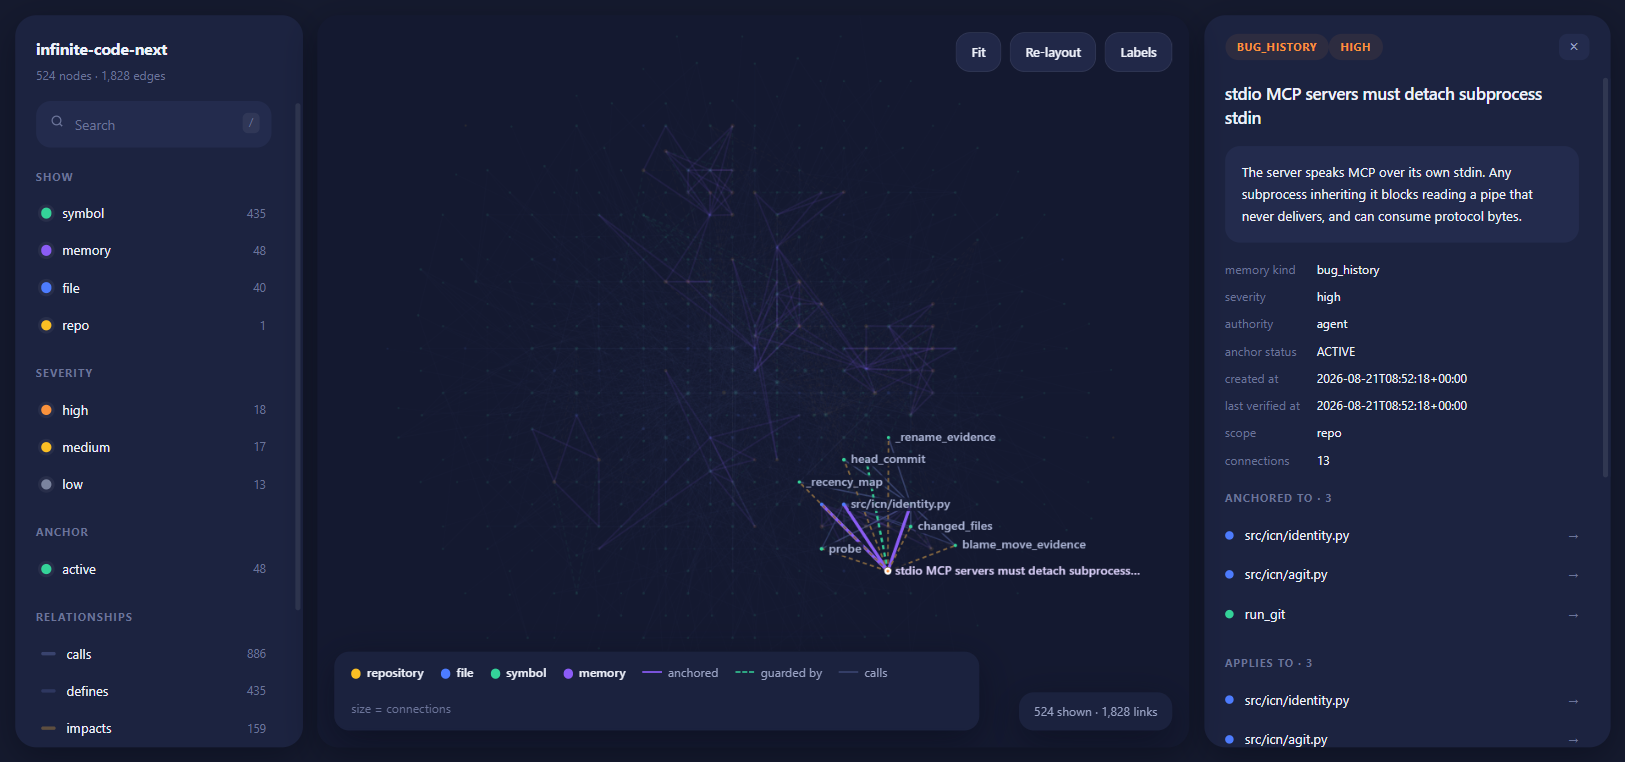
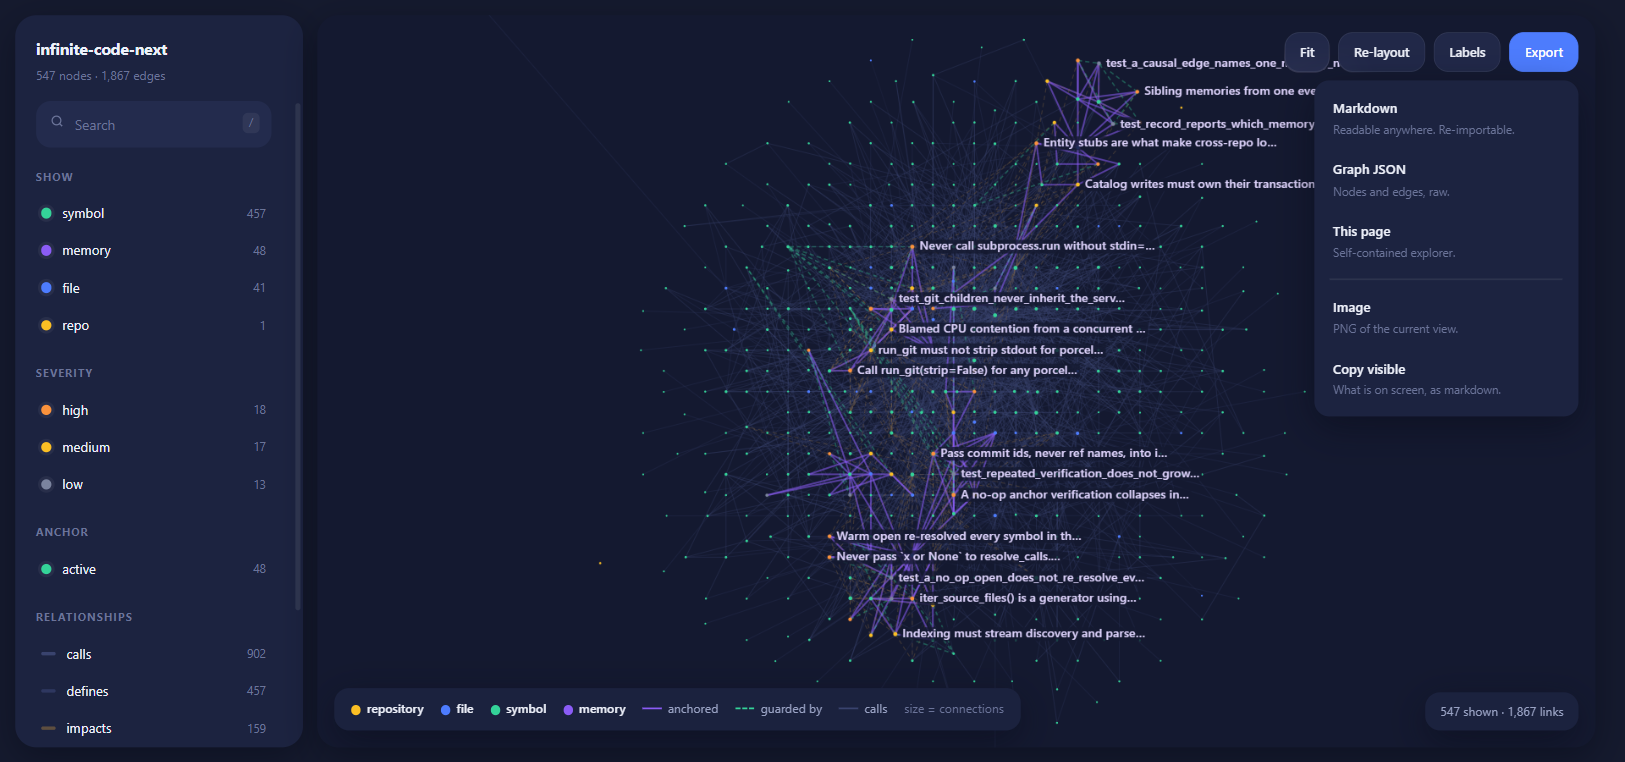
Add export to the explorer UI
Export existed only on the CLI, which is invisible to anyone actually
looking at the graph. The toolbar now carries an Export menu offering
markdown, graph JSON, the page itself, a PNG of the current view, and a
"copy visible" that exports only what filters and search have left on
screen - so narrowing the view is how you produce a shareable subset.

All of it runs in the browser against the embedded graph. Nothing calls
back to the origin, so a page saved to disk still exports; a test asserts
the export path uses no fetch, XHR or EventSource.

The markdown builder is reimplemented in JS rather than round-tripping
through the server, which creates a drift risk: a browser export that
looks correct and silently fails to import is the worst possible outcome.
It mirrors export.to_markdown() including section ordering and the
trailing JSON block, and a test pins the structural contract both sides
depend on. Verified end to end by importing a browser-shaped export
through the real CLI: 48 memories, 7 anchored to local code.

PNG export composes onto an opaque ground first, because the canvas is
transparent and a dark-on-dark image that only reads in a dark viewer is
a trap. Clipboard copy falls back to a download when the clipboard API is
unavailable, rather than leaving someone believing the export vanished.

162 tests.

diff --git a/src/icn/web/explorer.js b/src/icn/web/explorer.js
@@ -427,6 +427,154 @@ document.getElementById('lbl').onclick = ev => {
 };
 addEventListener('resize', () => draw());
 
+/* ------------------------------------------------------------------ export */
+/* Everything here runs in the browser against the embedded graph. The markdown
+   deliberately mirrors export.to_markdown() byte for byte, including the
+   trailing JSON block, so a file saved from this page re-imports through
+   `icn-explore import` exactly like one written by the CLI. Diverging would
+   produce a file that looks right and silently fails to import. */
+const MEM_ORDER = ['security','invariant','warning','contract','failed_attempt',
+  'decision','bug_history','fix_history','migration','performance','convention',
+  'rationale','test_evidence'];
+
+function toast(msg) {
+  let el = document.querySelector('.toast');
+  if (!el) { el = document.createElement('div'); el.className = 'toast';
+             document.body.appendChild(el); }
+  el.textContent = msg;
+  requestAnimationFrame(() => el.classList.add('show'));
+  clearTimeout(el._t);
+  el._t = setTimeout(() => el.classList.remove('show'), 2600);
+}
+
+function download(name, blob) {
+  const url = URL.createObjectURL(blob), a = document.createElement('a');
+  a.href = url; a.download = name;
+  document.body.appendChild(a); a.click(); a.remove();
+  setTimeout(() => URL.revokeObjectURL(url), 1000);
+  toast('Saved ' + name);
+}
+
+const slug = s => (s || 'knowledge').replace(/[^a-z0-9._-]+/gi, '-').toLowerCase();
+
+function toMarkdown(graph) {
+  const mems = graph.nodes.filter(n => n.kind === 'memory');
+  const out = [
+    `# Knowledge: ${graph.repo_name}`, '',
+    `Exported ${graph.exported_at} from \`${graph.repo_id}\`.`,
+    `${mems.length} memories over ${graph.stats.nodes} nodes` +
+      ` and ${graph.stats.edges} edges.`, '',
+    'Import with `icn-explore import <this file>`.', '',
+  ];
+
+  const labels = new Map(graph.nodes.map(n => [n.id, n.label]));
+  const anchored = new Map();
+  for (const e of graph.edges) if (e.kind === 'ANCHORED_TO')
+    (anchored.get(e.from) || anchored.set(e.from, []).get(e.from))
+      .push(labels.get(e.to) || e.to);
+
+  const byKind = new Map();
+  for (const m of mems) {
+    const k = m.detail?.memory_kind || 'rationale';
+    (byKind.get(k) || byKind.set(k, []).get(k)).push(m);
+  }
+  const kinds = [...MEM_ORDER.filter(k => byKind.has(k)),
+                 ...[...byKind.keys()].filter(k => !MEM_ORDER.includes(k)).sort()];
+
+  for (const kind of kinds) {
+    out.push('## ' + kind.replace(/_/g,' ').replace(/\b\w/g, c => c.toUpperCase()), '');
+    for (const m of byKind.get(kind).sort((a,b) => (a.label||'').localeCompare(b.label||''))) {
+      const d = m.detail || {};
+      const flag = d.anchor_status === 'ACTIVE' ? '' : ` **[${d.anchor_status}]**`;
+      out.push(`### ${m.label}${flag}`, '');
+      out.push(`- severity: ${d.severity} | authority: ${d.authority}`);
+      const at = anchored.get(m.id) || [];
+      if (at.length) out.push('- applies to: ' + at.slice(0,8).map(a => '`'+a+'`').join(', '));
+      out.push('');
+      const body = (d.body || '').trim();
+      if (body && body !== m.label) out.push(body, '');
+    }
+  }
+
+  out.push('---', '', '<!-- infinite-code-next:graph -->', '```json',
+           JSON.stringify(graph, null, 1), '```', '');
+  return out.join('\n');
+}
+
+function visibleGraph() {
+  // What is on screen, as a real graph: filters and search already decided
+  // this, so exporting it is how a filtered view becomes a shareable subset.
+  const ids = new Set(vis.map(n => n.id));
+  const nodes = vis.map(({x,y,vx,vy,deg,r,hit,...keep}) => keep);
+  const edges = vedges.filter(e => ids.has(e.from) && ids.has(e.to));
+  const byNodeKind = {}, byEdgeKind = {};
+  for (const n of nodes) byNodeKind[n.kind] = (byNodeKind[n.kind]||0)+1;
+  for (const e of edges) byEdgeKind[e.kind] = (byEdgeKind[e.kind]||0)+1;
+  return {...GRAPH, nodes, edges,
+          exported_at: new Date().toISOString().replace(/\.(\d{3})Z$/, '.$1+00:00'),
+          stats:{nodes:nodes.length, edges:edges.length,
+                 by_node_kind:byNodeKind, by_edge_kind:byEdgeKind}};
+}
+
+function exportPng() {
+  // Compose onto an opaque ground: the canvas is transparent, and a PNG that
+  // renders as dark-on-dark everywhere except a white viewer is a trap.
+  const out = document.createElement('canvas');
+  out.width = cv.width; out.height = cv.height;
+  const c = out.getContext('2d');
+  c.fillStyle = getComputedStyle(document.documentElement)
+                  .getPropertyValue('--stage').trim() || '#141930';
+  c.fillRect(0, 0, out.width, out.height);
+  c.drawImage(cv, 0, 0);
+  out.toBlob(b => download(slug(GRAPH.repo_name) + '-graph.png', b), 'image/png');
+}
+
+const EXPORTS = {
+  md:   () => download(slug(GRAPH.repo_name) + '-knowledge.md',
+                new Blob([toMarkdown(GRAPH)], {type:'text/markdown;charset=utf-8'})),
+  json: () => download(slug(GRAPH.repo_name) + '-graph.json',
+                new Blob([JSON.stringify(GRAPH, null, 1)], {type:'application/json'})),
+  html: () => download(slug(GRAPH.repo_name) + '-explorer.html',
+                new Blob(['<!doctype html>\n' + document.documentElement.outerHTML],
+                         {type:'text/html;charset=utf-8'})),
+  png:  exportPng,
+  clip: async () => {
+    const md = toMarkdown(visibleGraph());
+    try {
+      await navigator.clipboard.writeText(md);
+      toast(`Copied ${vis.length} nodes as markdown`);
+    } catch {
+      // Clipboard needs a secure context; falling back to a file is better
+      // than telling someone their export vanished.
+      download(slug(GRAPH.repo_name) + '-visible.md',
+               new Blob([md], {type:'text/markdown;charset=utf-8'}));
+    }
+  },
+};
+
+const exportBtn = document.getElementById('exportBtn');
+const exportMenu = document.getElementById('exportMenu');
+function closeMenu() {
+  exportMenu.hidden = true;
+  exportBtn.classList.remove('on');
+  exportBtn.setAttribute('aria-expanded', 'false');
+}
+exportBtn.onclick = ev => {
+  ev.stopPropagation();
+  const open = exportMenu.hidden;
+  exportMenu.hidden = !open;
+  exportBtn.classList.toggle('on', open);
+  exportBtn.setAttribute('aria-expanded', String(open));
+};
+exportMenu.querySelectorAll('button[data-fmt]').forEach(b => b.onclick = () => {
+  closeMenu();
+  try { EXPORTS[b.dataset.fmt](); }
+  catch (err) { toast('Export failed: ' + err.message); }
+});
+addEventListener('click', ev => {
+  if (!exportMenu.hidden && !exportMenu.contains(ev.target)) closeMenu();
+});
+
 /* --------------------------------------------------------------- lifecycle */
 function seed() {
   nodes.forEach((n,i) => {

diff --git a/src/icn/web/explorer.css b/src/icn/web/explorer.css
@@ -182,3 +182,31 @@ canvas.drag { cursor:grabbing; }
 .empty { display:flex; flex-direction:column; align-items:center; justify-content:center;
          height:100%; gap:12px; color:var(--faint); text-align:center; padding:34px; }
 .empty svg { width:38px; height:38px; stroke:currentColor; fill:none; stroke-width:1.3; }
+
+/* --------------------------------------------------------------- export */
+/* The graph is already embedded in this page, so every export runs offline
+   in the browser. Nothing here calls back to the server. */
+.menu-wrap { position:relative; }
+.menu {
+  position:absolute; top:calc(100% + 8px); right:0; min-width:250px; z-index:20;
+  background:var(--card); border-radius:var(--r-md); box-shadow:var(--shadow);
+  padding:7px; display:flex; flex-direction:column; gap:2px;
+}
+.menu[hidden] { display:none; }
+.menu button {
+  display:flex; flex-direction:column; gap:2px; align-items:flex-start;
+  background:none; border:0; color:var(--text); font:inherit; text-align:left;
+  padding:9px 11px; border-radius:var(--r-sm); cursor:pointer; width:100%;
+}
+.menu button:hover { background:var(--card-2); }
+.menu button b { font-size:12.5px; font-weight:600; }
+.menu button span { font-size:11px; color:var(--faint); }
+.menu-sep { height:1px; background:var(--line); margin:5px 8px; }
+
+.toast {
+  position:fixed; bottom:26px; left:50%; transform:translateX(-50%) translateY(14px);
+  background:var(--card); color:var(--text); border-radius:var(--r-md);
+  padding:12px 20px; font-size:12.5px; box-shadow:var(--shadow);
+  opacity:0; pointer-events:none; transition:opacity .2s,transform .2s; z-index:60;
+}
+.toast.show { opacity:1; transform:translateX(-50%) translateY(0); }

diff --git a/src/icn/web/explorer.html b/src/icn/web/explorer.html
@@ -31,6 +31,23 @@
       <button class="btn" id="fit" title="Fit to view">Fit</button>
       <button class="btn" id="relayout" title="Re-run layout">Re-layout</button>
       <button class="btn" id="lbl" title="Toggle labels">Labels</button>
+      <div class="menu-wrap">
+        <button class="btn" id="exportBtn" title="Export this knowledge"
+                aria-haspopup="true" aria-expanded="false">Export</button>
+        <div class="menu" id="exportMenu" role="menu" hidden>
+          <button role="menuitem" data-fmt="md">
+            <b>Markdown</b><span>Readable anywhere. Re-importable.</span></button>
+          <button role="menuitem" data-fmt="json">
+            <b>Graph JSON</b><span>Nodes and edges, raw.</span></button>
+          <button role="menuitem" data-fmt="html">
+            <b>This page</b><span>Self-contained explorer.</span></button>
+          <div class="menu-sep"></div>
+          <button role="menuitem" data-fmt="png">
+            <b>Image</b><span>PNG of the current view.</span></button>
+          <button role="menuitem" data-fmt="clip">
+            <b>Copy visible</b><span>What is on screen, as markdown.</span></button>
+        </div>
+      </div>
     </div>
     <div class="float legend" id="legend"></div>
     <div class="float count" id="count"></div>

diff --git a/tests/test_export_import.py b/tests/test_export_import.py
@@ -212,3 +212,47 @@ def test_the_page_cannot_be_broken_by_content(workspace, tmp_path):
     payload = page.split('id="data" type="application/json">', 1)[1].split("</script>", 1)[0]
     assert json.loads(payload), "an embedded </script> must not truncate the data block"
     assert "window.__pwned" not in page.split("__DATA__")[0]
+
+
+def test_the_page_offers_every_export_the_cli_does(workspace):
+    """Export was CLI-only, which is invisible to anyone using the UI."""
+    record_baseline(workspace)
+    page = explorer.render(graph_of(workspace))
+
+    for fmt in ('data-fmt="md"', 'data-fmt="json"', 'data-fmt="html"',
+                'data-fmt="png"', 'data-fmt="clip"'):
+        assert fmt in page, f"export menu is missing {fmt}"
+    assert 'id="exportBtn"' in page
+
+
+def test_browser_and_cli_markdown_agree(workspace):
+    """The page rebuilds markdown in JS rather than calling back to the
+    server, so the two implementations must not drift: a browser export that
+    looks right and silently fails to import is the worst outcome."""
+    record_baseline(workspace)
+    graph = graph_of(workspace)
+    page = explorer.render(graph)
+
+    # The JS mirrors to_markdown(); check the structural contract both sides
+    # depend on, not the prose.
+    for anchor in ('# Knowledge: ', 'Import with `icn-explore import <this file>`.',
+                   '<!-- infinite-code-next:graph -->'):
+        assert anchor in export.to_markdown(graph)
+        assert anchor in page, f"page markdown builder is missing {anchor!r}"
+
+    # And the memory-kind ordering, which decides section order in both.
+    assert "MEM_ORDER" in page
+    for kind in ('security', 'invariant', 'warning', 'failed_attempt', 'test_evidence'):
+        assert f"'{kind}'" in page
+
+
+def test_exports_need_no_server(workspace):
+    """A saved page must still export. Anything fetching from the origin it
+    was served from breaks the moment someone opens it from disk."""
+    record_baseline(workspace)
+    page = explorer.render(graph_of(workspace))
+
+    js = page.split('id="data"', 1)[1]
+    for call in ('fetch(', 'XMLHttpRequest', 'EventSource'):
+        assert call not in js, f"export path must not use {call}"
+    assert 'URL.createObjectURL' in js, "downloads should come from an in-memory Blob"

diff --git a/README.md b/README.md
@@ -114,9 +114,9 @@ icn-explore           # if the package is on your PATH
 <img src="assets/explorer.png" alt="The knowledge explorer: filters on the left, force-directed graph in the centre, node inspector on the right" width="900">
 </div>
 
-Above: a `bug_history` memory selected. Its neighbourhood lights up — the two
-files it is anchored to, the symbol it governs, the test that guards it (green,
-dashed), the six symbols it impacts (amber, dashed) — while everything else
+Above: the export menu open over the graph. Selecting a node instead lights up
+its neighbourhood — the files it is anchored to, the test that guards it
+(green, dashed), the symbols it impacts (amber, dashed) — while everything else
 fades back.
 
 | | |
@@ -126,6 +126,7 @@ fades back.
 | **Inspect** | click a node for its full body, metadata, and every typed connection |
 | **Navigate** | click any connection to jump there — walk from a warning to the code it guards to the test that covers it |
 | **Zoom & pan** | scroll and drag; node size is call-degree, so load-bearing code looks load-bearing |
+| **Export** | markdown, graph JSON, the page itself, a PNG, or just what is currently on screen |
 
 Self-contained: one HTML file with the data inlined. No CDN, no build step, no
 npm. Save it, email it, commit it — it still works.
@@ -142,6 +143,22 @@ icn-explore --include-deleted           # include tombstoned code
 
 Hand another codebase's hard-won knowledge to someone else — or to another
 agent.
+
+### From the explorer
+
+The **Export** button offers everything below without leaving the page. It all
+runs offline in the browser against the embedded graph — no server call, so a
+saved page still exports.
+
+| | |
+|---|---|
+| **Markdown** | readable anywhere, and re-importable |
+| **Graph JSON** | nodes and edges, raw |
+| **This page** | the self-contained explorer, to send to someone |
+| **Image** | PNG of the current view |
+| **Copy visible** | *only what is on screen* — filter and search first, and the filtered view becomes a shareable subset |
+
+### From the CLI
 
 ```bash
 icn-explore export -o knowledge.md      # readable markdown, renders anywhere
